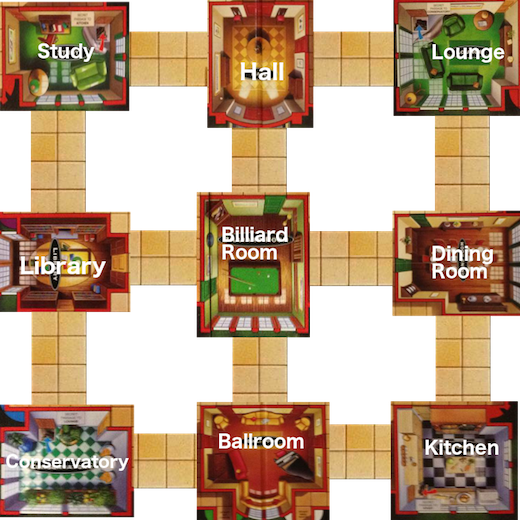
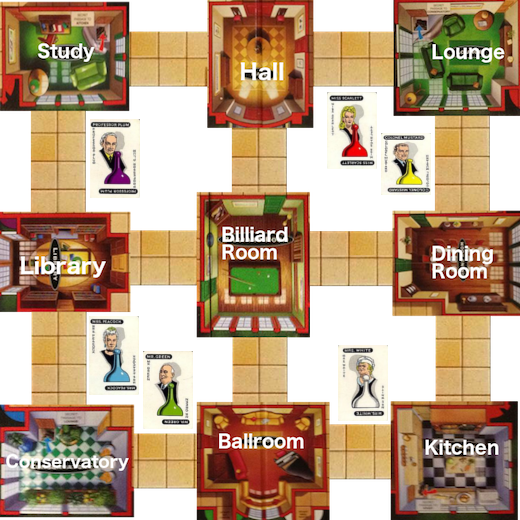
Encoded start spaces

diff --git a/src/static/movement.js b/src/static/movement.js
@@ -1,3 +1,9 @@
+// Global variable for movementData
+// Reason this is needed is to check if the current player is allowed to move
+let movementData = {
+    playerAllowedToMove: null
+}
+
 const validPositions = [
     [{x: 40, y: 40}, {x: 140, y: 40}, {x: 240, y: 40}, {x: 320, y: 40}, {x: 440, y: 40}],
     [{x: 40, y: 140}, {x: -1, y: -1}, {x: 240, y: 140}, {x: -1, y: -1}, {x: 440, y: 140}],
@@ -16,6 +22,15 @@ const roomMapping = {
     "conservatory": {indexX: 4, indexY: 0},
     "ballroom": {indexX: 4, indexY: 2},
     "kitchen": {indexX: 4, indexY: 4},
+}
+
+const startSpaces = {
+    "plum": {x: 112, y: 158},
+    "white": {x: 360, y: 384},
+    "peacock": {x: 114, y: 356},
+    "green": {x: 167, y: 384},
+    "scarlett": {x: 351, y: 107},
+    "mustard": {x: 411, y: 168},
 }
 
 let myGameBoard;
@@ -37,6 +52,11 @@ class GameBoard {
     clear() {
         this.context.clearRect(0, 0, this.canvas.width, this.canvas.height);
     }
+    static onCanvasClick(event) {
+        let x = event.offsetX;
+        let y = event.offsetY;
+        console.log("Clicked", " x:", x, " y:", y);
+    }
 }
 
 class Piece {
@@ -57,6 +77,12 @@ class Piece {
     newPos(incX, incY) {
         let x = this.indexX;
         let y = this.indexY;
+
+        // Handing the corner positions
+        // index 0,0 corresponds to the top left corner
+        // and saying y === -1 means that they're trying to 
+        // press the left arrow, this then navigates them
+        // to the opposite corner
         if (x == 0 && y == 0 && incY === -1) {
             this.x = validPositions[4][4].x;
             this.y = validPositions[4][4].y;
@@ -124,6 +150,7 @@ let drawPieces = (context) => {
 myGameBoard.draw(drawPieces);
 
 document.onkeydown = handleKeyDown;
+
 
 function moveIfValid(piece, incX, incY) {
     if (piece.indexX === 0 && piece.indexY === 0 && incY === -1) {

diff --git a/src/static/client.js b/src/static/client.js
@@ -165,7 +165,7 @@ socket.on('message', (data) => {
     let gameState = parsedMessage.gameState;
     let connectedPlayerName = GLOBAL_CLIENT_STATE.connectedPlayerName;
     statusDiv = document.getElementById("status");
-    statusDiv.innerHTML = "In " + GLOBAL_CLIENT_STATE.connectedPlayerName + "'s client. Current turn number: " + gameState.turn + " Current player's turn: " + gameState.current_player;
+    statusDiv.innerHTML = "In " + GLOBAL_CLIENT_STATE.connectedPlayerName + "'s client. https://hangouts.google.com/call/wSFGkC1w_wCLyNxjAEpcAAEE turn number: " + gameState.turn + " Current player's turn: " + gameState.current_player;
 
     switch (parsedMessage.responseToken) {
         case responses.PLAYER_JOINED_GAME:

diff --git a/src/templates/index.html b/src/templates/index.html
@@ -24,7 +24,7 @@
         <div class="mainview">
             <div class="leftview">
                 <div class="gameboard">
-                    <canvas id="gamecanvas" width="520" height="520"></canvas>
+                    <canvas id="gamecanvas" width="520" height="520" onclick="GameBoard.onCanvasClick(event)"></canvas>
                 </div>
                 <div class="topbox">
                     <div class="actionbtns">

diff --git a/src/index.py b/src/index.py
@@ -16,7 +16,8 @@ globalGameState = {
     "players": [],
     "turn": 0,
     "current_player": "",
-    "player_cards": dict()
+    "player_cards": dict(),
+    "player_locations": [],
 }
 
 weapons = ["candlestick", "revolver",
@@ -165,6 +166,12 @@ def handle_message(data):
 #     solution["suspect"] = sample(suspects, 1)
 
 # Randomly assign cards to players
+
+# Preconditions: game has already started
+# Postconditions: players are assigned colors, and starting locations
+def initialize_movement_state():
+    colors = list()
+    possible_colors = [""]
 
 def initialize_card_state():
     global solution
